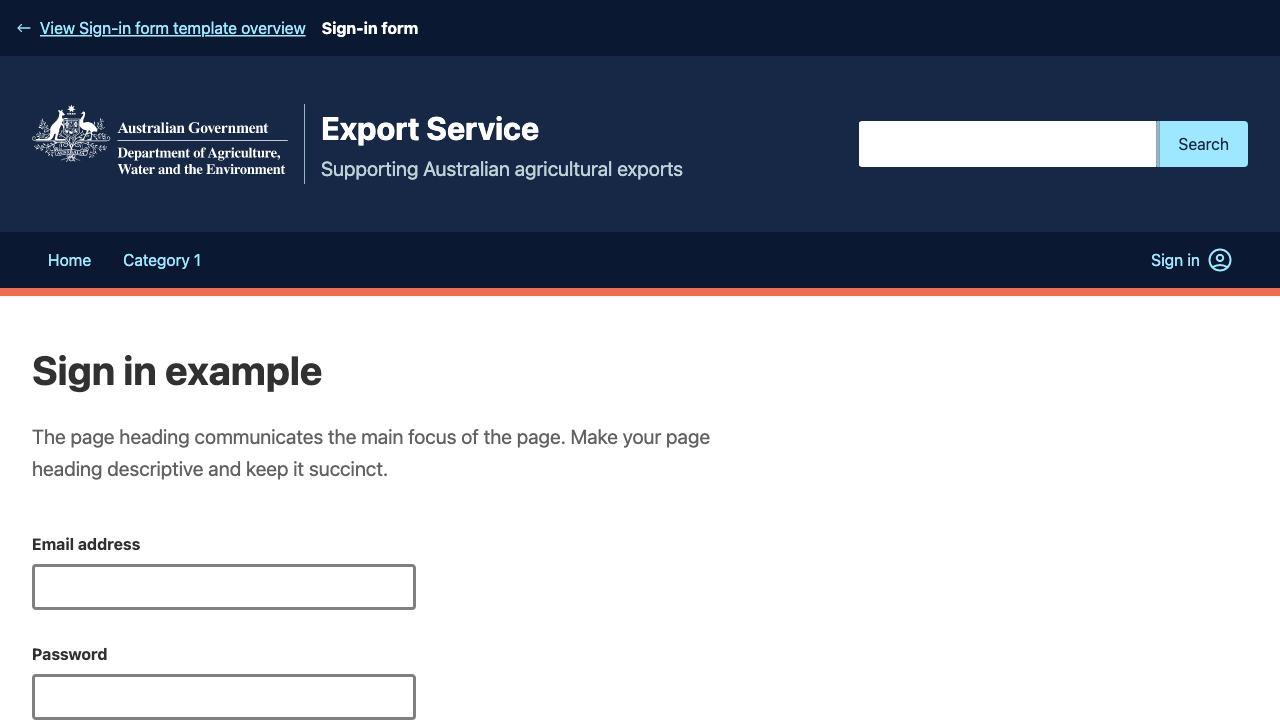
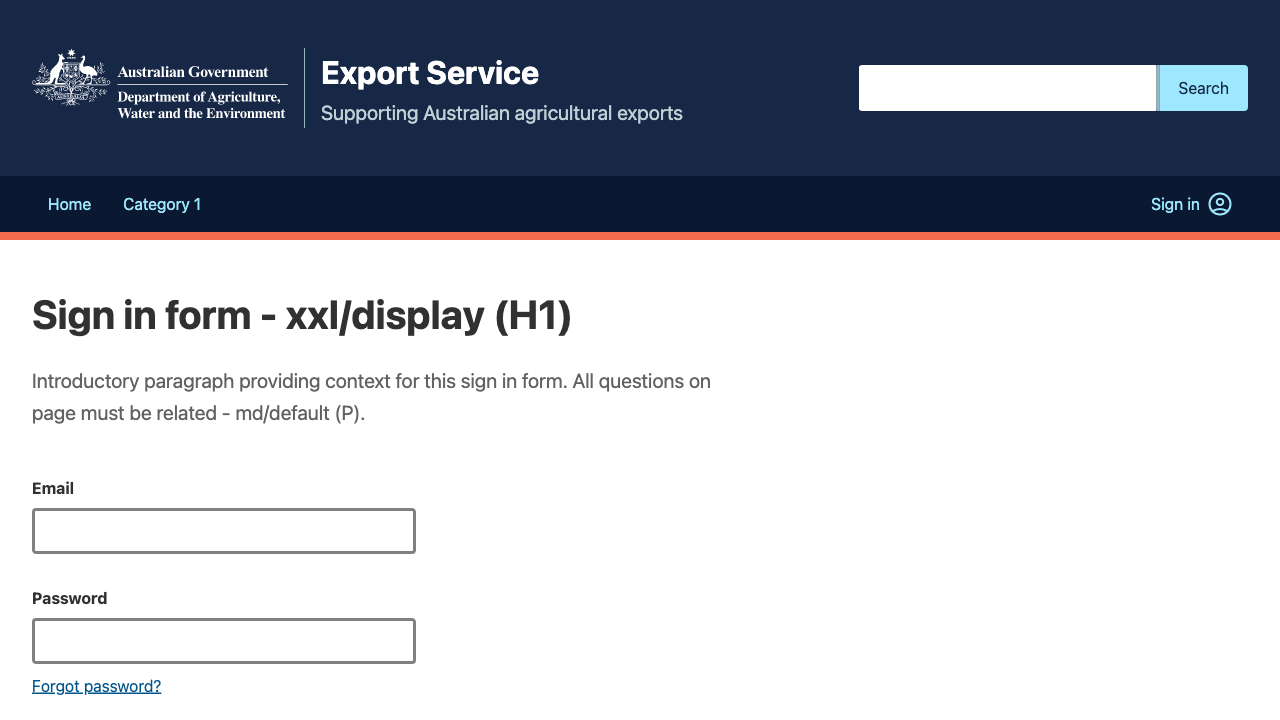
Generate thumbnails

diff --git a/docs/scripts/generateTemplateImages.js b/docs/scripts/generateTemplateImages.js
@@ -80,6 +80,13 @@ function getTemplateList() {
 					deviceScaleFactor: 1,
 				});
 				await page.goto(url);
+
+				// Scroll past the template banner
+				await page.evaluate(() => {
+					const templateBannerHeight = 56;
+					window.scrollTo(0, templateBannerHeight);
+				});
+
 				await page.screenshot({ path: destination });
 			} catch (error) {
 				console.log(`Error with "${slug}"`);
